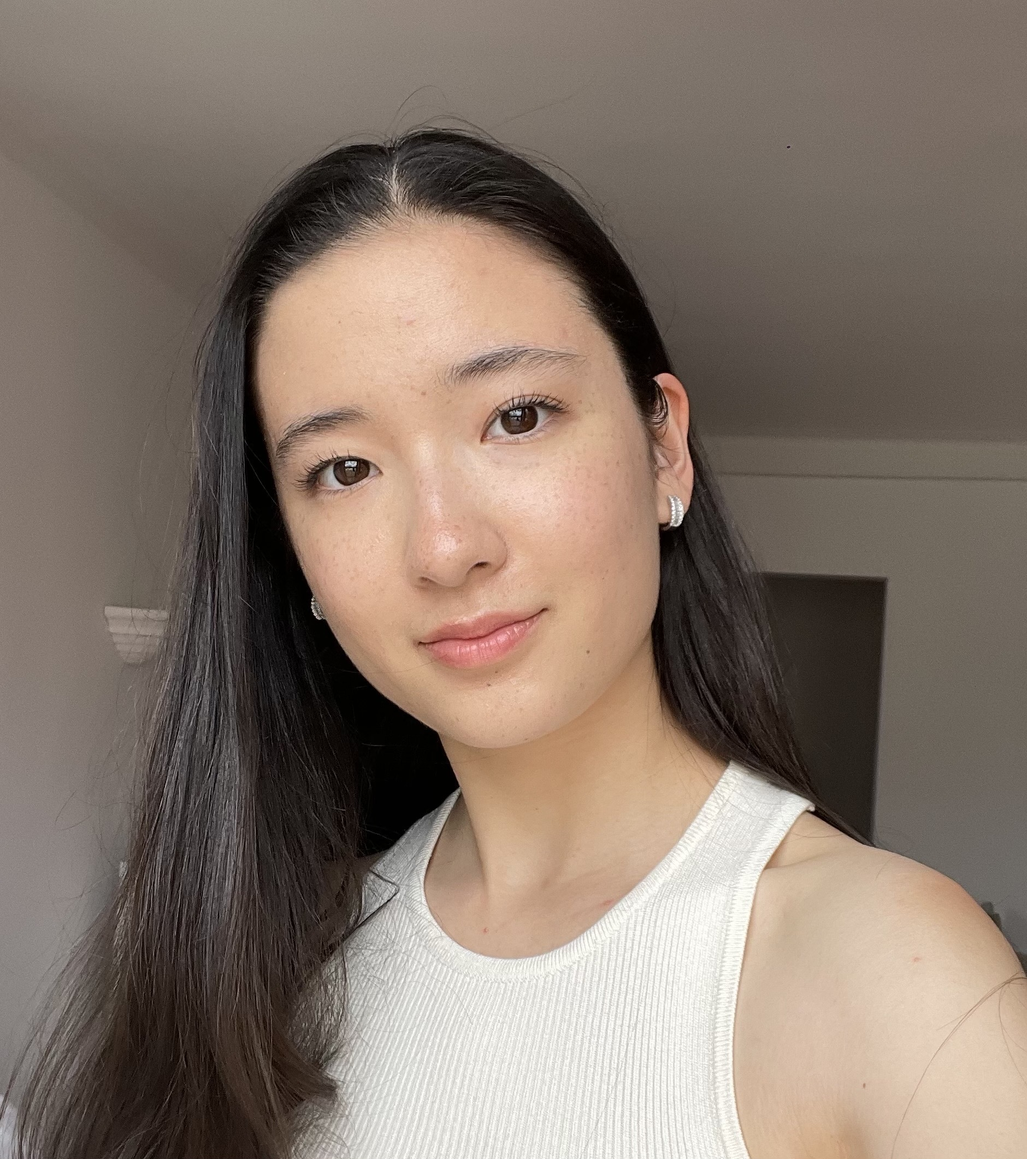
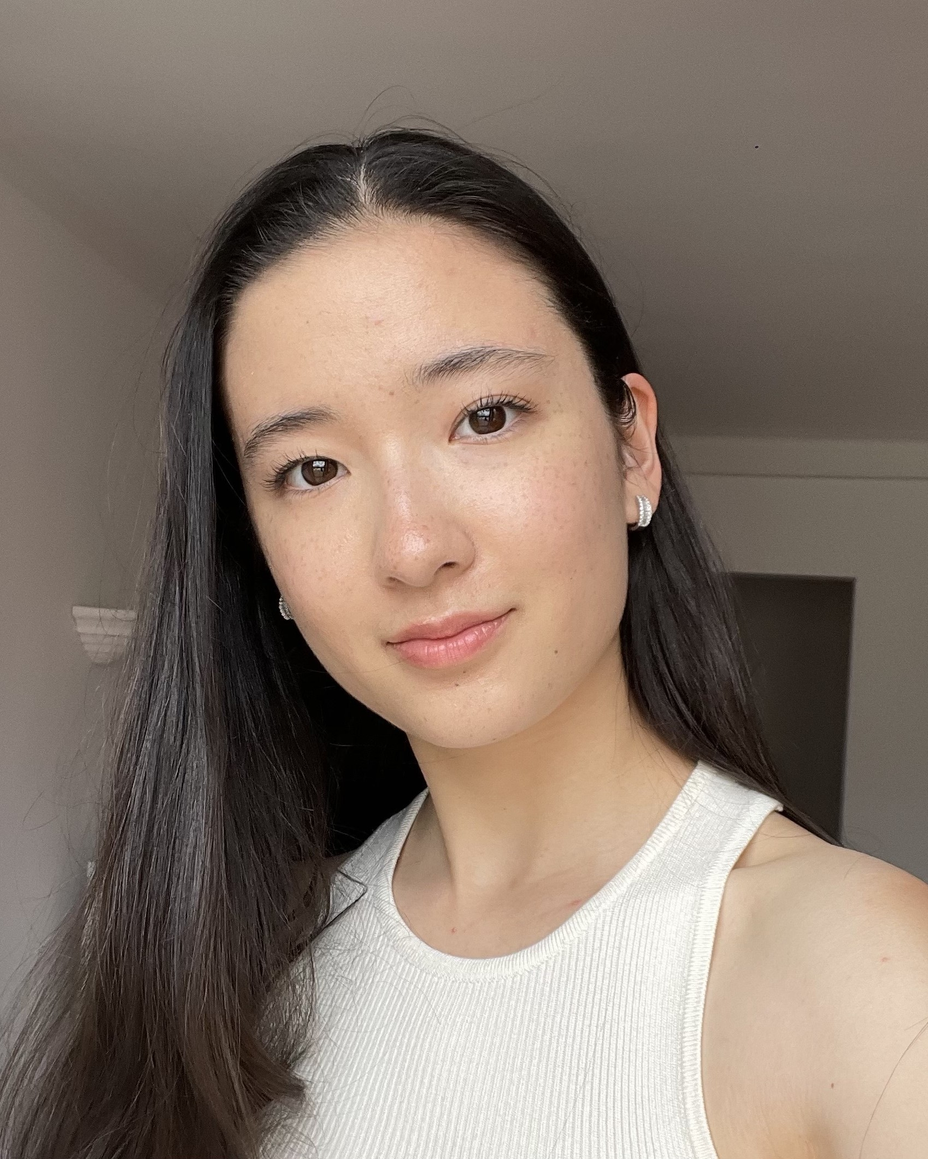
Homogenized image size

diff --git a/about-us/index.html b/about-us/index.html
@@ -218,7 +218,7 @@
                 </div>
                 <div class="row" data-aos="fade" data-aos-duration="1000" style="width: 90%;margin-left: 5%;">
                     <div class="col-sm-6 col-lg-4">
-                        <div class="card clean-card text-center"><img class="card-img-top w-100 d-block" src="/assets/img/headshots/Godwill_Agbehonou.png">
+                        <div class="card clean-card text-center"><img class="card-img-top w-100 d-block" src="/assets/img/headshots/Godwill_Agbehonou.jpg">
                             <div class="card-body info">
                                 <h4 class="card-title">Godwill Agbehonou</h4>
                                 <p class="card-text">Low Voltage Chief</p>
